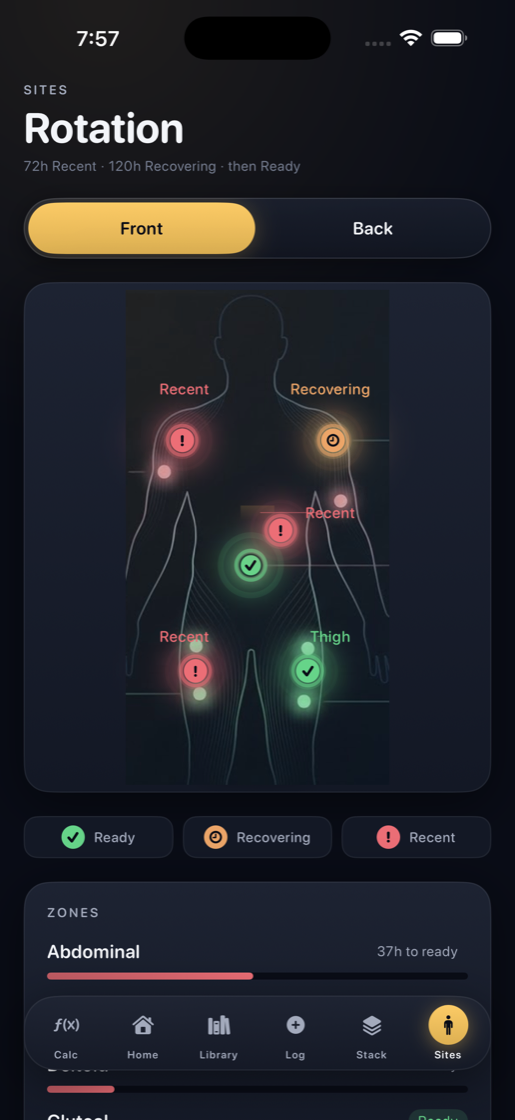
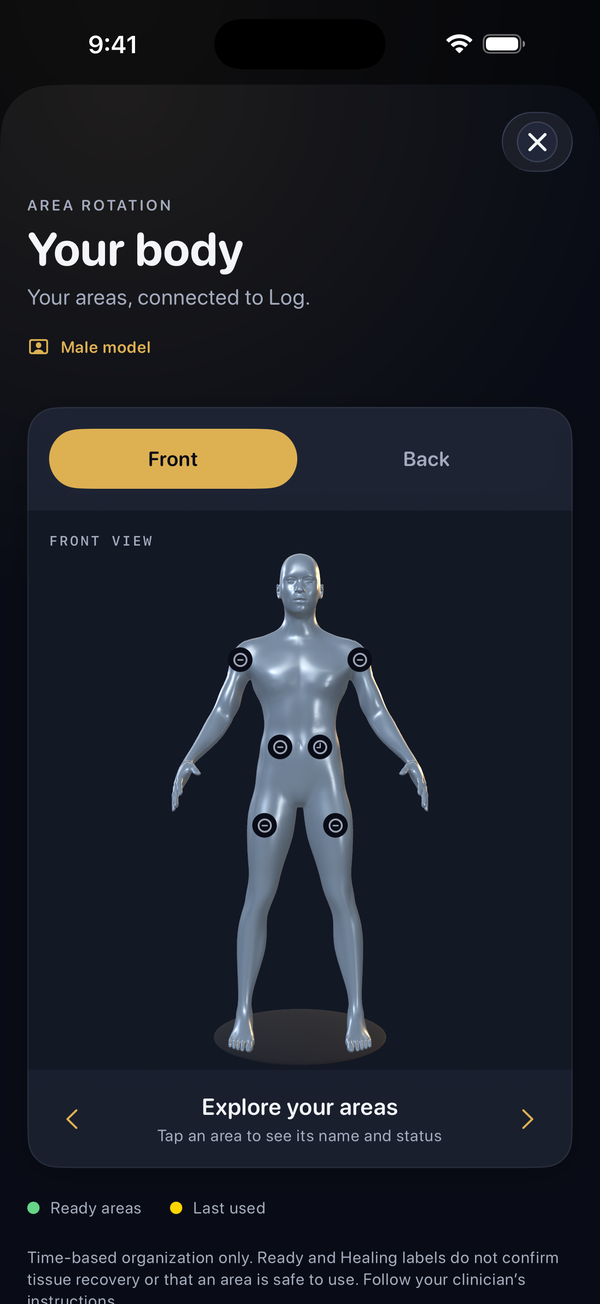
Home page: PeptideBro: Peptide Tracker; detach web tools from the iOS app
The iOS app 1.3 no longer calculates (App Review Guideline 1.4.2), so the
site stops presenting it as a calculator:

- Home page retitled and rewritten around the tracker app (schedule,
  area rotation, user-recorded vial balances, privacy) with 1.3 screens.
- Web calculator: remove Smart App Banner, "Get the app", the
  "Keep this calculation in PeptideBro" transfer and the app upsell.
- Transfer page: no app hand-off; links back to the web calculator.
- Analytics banner wording no longer mentions the calculator.

Web tools stay available at /tools and /calculator.

diff --git a/index.html b/index.html
@@ -4,10 +4,10 @@
 <meta name="google-site-verification" content="cEyh7_z7_5UPKW_G_X9DqLtcxIeTbjWP7xhJrBdN7NE" />
 <meta charset="utf-8">
 <meta name="viewport" content="width=device-width,initial-scale=1">
-<title>Free Peptide Calculator & Unit Conversion Tools | PeptideBro</title>
-<meta name="description" content="Free online reconstitution calculator, mg to mcg converter, concentration calculator, and U-100 volume converter. Instant browser tools, no signup or download.">
-<meta property="og:title" content="Free online calculators — PeptideBro">
-<meta property="og:description" content="Convert mass, concentration, and volume with free browser tools and clear arithmetic explanations.">
+<title>PeptideBro: Peptide Tracker for iPhone | Private Schedule &amp; Journal</title>
+<meta name="description" content="Keep your schedule, saved entries, injection-area rotation and vials in one private iPhone journal. No account needed. Free, with optional Pro.">
+<meta property="og:title" content="PeptideBro: Peptide Tracker for iPhone">
+<meta property="og:description" content="Your schedule, entries, injection areas and vials in one private journal. No account needed.">
 <meta name="apple-itunes-app" content="app-id=6763947732">
 <link rel="canonical" href="https://peptidebro.app/">
 <link rel="stylesheet" href="style.css"><link rel="stylesheet" href="/tools.css">
@@ -18,12 +18,11 @@
   <div class="wrap">
     <a class="brand" href="/">PeptideBro</a>
     <nav>
-      <a href="/calculator">Calculator</a>
-      <a href="/tools">Free tools</a>
+      <a href="/tools">Web tools</a>
       <a href="/privacy.html">Privacy</a>
       <a href="/terms.html">Terms</a>
       <a href="/support.html">Support</a>
-      <a class="nav-cta" href="https://apps.apple.com/us/app/peptidebro-tracker/id6763947732">Get the app</a>
+      <a class="nav-cta" href="https://apps.apple.com/us/app/id6763947732">Get the app</a>
     </nav>
   </div>
 </header>
@@ -31,56 +30,60 @@
 <main>
   <section class="wrap hero">
     <div class="hero-copy">
-      <p class="eyebrow">FREE ONLINE TOOLS · NO SIGNUP</p>
-      <h1>Clear conversions.<br>Right in your browser.</h1>
-      <p class="lede">Calculate reconstitution arithmetic, convert mg to mcg, and work out solution concentration or U-100 syringe markings. Free tools with formulas you can follow. No download needed.</p>
-      <div class="cta-row"><a class="web-cta" href="/calculator">Open free calculator</a><a href="/tools">Browse all web tools →</a></div>
-      <p class="meta">Your inputs stay in your browser. These tools perform arithmetic; they do not recommend doses.</p>
+      <p class="eyebrow">FOR IPHONE · PRIVATE JOURNAL</p>
+      <h1>Your schedule.<br>Your journal.</h1>
+      <p class="lede">PeptideBro: Peptide Tracker keeps your schedule, saved entries, injection-area rotation and vials in one place on your iPhone. No account needed.</p>
+      <div class="cta-row">
+        <a class="btn-appstore" href="https://apps.apple.com/us/app/id6763947732">
+          <span class="btn-appstore-sub">Download on the</span>
+          <span class="btn-appstore-main">App Store</span>
+        </a>
+      </div>
+      <p class="meta">Free, with optional Pro. Records stay on your device unless you turn on private iCloud backup. 17+.</p>
     </div>
     <div class="hero-shot">
-      <img src="img/screen-calculator.png" width="280" alt="Calculator preview from the companion PeptideBro iOS app">
+      <img src="img/screen-today.png" width="280" alt="PeptideBro Today screen with the day's schedule and recorded entries">
     </div>
   </section>
 
-<section class="wrap"><h2>Choose a free web tool</h2><nav class="tool-links" aria-label="Free calculators"><a href="/mg-to-mcg"><strong>mg ↔ mcg</strong><span>Convert milligrams and micrograms.</span></a><a href="/concentration-calculator"><strong>Concentration</strong><span>Calculate mg/mL and mcg/mL.</span></a><a href="/ml-to-units"><strong>mL ↔ U-100 units</strong><span>Understand volume and syringe markings.</span></a><a href="/reconstitution-math"><strong>Understand the math</strong><span>Follow a worked example and check units.</span></a></nav></section>
-  <section id="features" class="wrap features" aria-label="Companion iOS app features">
+  <section id="features" class="wrap features" aria-label="App features">
     <article>
-      <h2>Reconstitution calculator</h2>
-      <p>Powder, pre-mixed, or blend vials &rarr; the exact units to draw on a U-100/U-40 syringe, the concentration, and how many doses your vial holds. You enter the numbers; it does the math.</p>
+      <h2>Schedule &amp; reminders</h2>
+      <p>Set weekdays, dates or intervals, pause when you need to, and see scheduled, recorded and skipped entries in Today and Calendar. Optional reminders and Home Screen widgets.</p>
     </article>
     <article>
       <h2>Site-rotation map</h2>
-      <p>See at a glance which injection zones are ready, recovering, or recently used &mdash; based on standard cooldown windows &mdash; with optional reminders.</p>
+      <p>Explore a 3D body map and see which injection areas you used recently, based on the timing in your log. Organizational labels, not medical clearance.</p>
     </article>
     <article>
-      <h2>Progress &amp; outcomes</h2>
-      <p>Log your weight and how you feel and chart the trend over time, so you can actually see whether your protocol is working.</p>
+      <h2>Vials you control</h2>
+      <p>Record a vial's starting volume and the liquid used on each entry. The balance changes only by the numbers you type and your own corrections.</p>
     </article>
     <article>
       <h2>Private by design</h2>
-      <p>The companion iOS app has no account, analytics, or ads. Your log lives on your device, with optional backup to <em>your own</em> private iCloud &mdash; we never receive it.</p>
+      <p>No account, no analytics, no ads in the app. Your journal lives on your device, with optional backup to <em>your own</em> private iCloud &mdash; we never receive it.</p>
     </article>
   </section>
 
   <section class="wrap shots">
-    <img src="img/screen-calculator.png" width="240" alt="Reconstitution calculator result">
-    <img src="img/screen-sites.png" width="240" alt="Injection site-rotation map">
-    <img src="img/screen-outcomes.png" width="240" alt="Weight and outcome tracking">
+    <img src="img/screen-sites.png" width="240" alt="3D area rotation map">
+    <img src="img/screen-calendar.png" width="240" alt="Calendar of planned and recorded entries">
+    <img src="img/screen-vials.png" width="240" alt="Vial balances from recorded volumes">
   </section>
 
   <section class="wrap trust">
-    <span>Free web tools</span><span>No signup</span><span>Private inputs</span><span>Optional website analytics</span>
+    <span>No account</span><span>On-device records</span><span>Optional private iCloud backup</span><span>Free, optional Pro</span>
   </section>
 
   <section class="wrap disclaimer">
-    <p><strong>Educational reference and a math utility. Not medical advice.</strong> PeptideBro does not recommend or calculate doses for you &mdash; it converts numbers you enter. Many compounds referenced are research chemicals not approved for human use. Consult a licensed clinician before starting, stopping, or modifying any protocol.</p>
+    <p><strong>A personal journal. Not medical advice.</strong> PeptideBro records what you enter. It does not recommend or adjust amounts, prescribe schedules, diagnose, treat, or sell compounds. Many compounds referenced are research chemicals not approved for human use. Consult a licensed clinician before starting, stopping, or modifying any protocol.</p>
   </section>
 
-  <section class="wrap cta-final"><h2>Start with the numbers you have.</h2><a class="web-cta" href="/tools">Explore free web tools</a></section>
+  <section class="wrap cta-final"><h2>Start your journal.</h2><a class="web-cta" href="https://apps.apple.com/us/app/id6763947732">Get PeptideBro for iPhone</a></section>
 </main>
 
 <footer class="wrap">
-  <p>&copy; <span id="year"></span> PeptideBro &middot; <a href="/privacy.html">Privacy</a> &middot; <a href="/terms.html">Terms</a> &middot; <a href="/support.html">Support</a></p>
+  <p>&copy; <span id="year"></span> PeptideBro &middot; <a href="/privacy.html">Privacy</a> &middot; <a href="/terms.html">Terms</a> &middot; <a href="/support.html">Support</a> &middot; <a href="/tools">Web tools</a></p>
 </footer>
 
 <script>document.getElementById('year').textContent = new Date().getFullYear();</script>

diff --git a/calculator.html b/calculator.html
@@ -8,7 +8,6 @@
 <link rel="canonical" href="https://peptidebro.app/calculator">
 <meta property="og:title" content="Peptide Reconstitution Calculator — free, instant, no signup">
 <meta property="og:description" content="Vial + water + dose in → exact syringe units out. Concentration, draw volume, and doses per vial. Free, no account.">
-<meta name="apple-itunes-app" content="app-id=6763947732">
 <link rel="stylesheet" href="style.css">
 <style>
   .calc-card {
@@ -108,20 +107,6 @@
   }
   .calc-warning.show { display: block; }
   .calc-empty { color: var(--ink-2); font-size: 14.5px; margin: 4px 0 0; }
-  .app-upsell {
-    background: var(--card);
-    border: 1px solid var(--line);
-    border-radius: var(--radius);
-    padding: 22px 24px;
-    margin: 32px 0;
-    display: flex;
-    align-items: center;
-    justify-content: space-between;
-    gap: 18px;
-    flex-wrap: wrap;
-  }
-  .app-upsell p { margin: 0; font-size: 14.5px; color: var(--ink-2); max-width: 440px; }
-  .app-upsell strong { color: var(--ink); }
   .faq details {
     background: var(--card);
     border: 1px solid var(--line);
@@ -144,7 +129,6 @@
       <a href="/calculator" aria-current="page">Calculator</a>
       <a href="/tools">Free tools</a>
       <a href="/support.html">Support</a>
-      <a class="nav-cta" href="https://apps.apple.com/us/app/peptidebro-tracker/id6763947732">Get the app</a>
     </nav>
   </div>
 </header>
@@ -218,17 +202,7 @@
           <div id="out-doses-wrap"><strong id="out-doses">—</strong><span>full doses / vial</span></div>
         </div>
         <p class="calc-warning" id="warning"></p>
-        <button id="transfer-calculation" type="button" disabled style="min-height:48px;width:100%;margin-top:16px;border-radius:12px;border:0;background:#ddb052;color:#090c16;font:inherit;font-weight:650;cursor:pointer">Keep this calculation in PeptideBro</button>
-        <p id="transfer-status" aria-live="polite" style="font-size:13px;color:#64748b">Requires PeptideBro 1.3 or later. Preview before saving.</p>
       </div>
-    </div>
-
-    <div class="app-upsell">
-      <p><strong>Want this saved, plus the rest of your protocol?</strong> The PeptideBro app adds a visual syringe, two-peptide blend mode, saved calcs, a private dose log, site-rotation map, and reminders — no account, all on your device.</p>
-      <a class="btn-appstore" href="https://apps.apple.com/us/app/peptidebro-tracker/id6763947732">
-        <span class="btn-appstore-sub">Download on the</span>
-        <span class="btn-appstore-main">App Store</span>
-      </a>
     </div>
 
     <section class="faq" aria-labelledby="faq-title">
@@ -257,7 +231,7 @@
 
 <section class="wrap tools-main"><h2>Choose a free web tool</h2><nav class="tool-links" aria-label="Free calculators"><a href="/mg-to-mcg"><strong>mg ↔ mcg</strong><span>Convert milligrams and micrograms.</span></a><a href="/concentration-calculator"><strong>Concentration</strong><span>Calculate mg/mL and mcg/mL.</span></a><a href="/ml-to-units"><strong>mL ↔ U-100 units</strong><span>Understand volume and syringe markings.</span></a><a href="/reconstitution-math"><strong>Understand the math</strong><span>Follow a worked example and check units.</span></a></nav></section>
     <section class="wrap disclaimer" style="padding-left:20px;">
-      <p><strong>Educational reference and a math utility. Not medical advice.</strong> PeptideBro does not recommend doses — it converts numbers you enter. The math runs in your browser. If you choose to transfer or share a calculation, its inputs are included in the link or file you create; review them before sharing. Consult a licensed clinician before starting, stopping, or modifying any protocol.</p>
+      <p><strong>Educational reference and a math utility. Not medical advice.</strong> PeptideBro does not recommend doses — it converts numbers you enter. The math runs in your browser. Consult a licensed clinician before starting, stopping, or modifying any protocol.</p>
     </section>
   </div>
 </main>
@@ -313,7 +287,6 @@
 }
 </script>
 
-<script src="/js/calculation-transfer.js"></script>
 <script>
 document.getElementById('year').textContent = new Date().getFullYear();
 
@@ -340,7 +313,6 @@ function fmt(n, digits) {
 }
 
 function calc() {
-  document.getElementById("transfer-calculation").disabled = true;
   const doseRaw = num('dose');
   const doseMcg = doseRaw === null ? null :
     (document.getElementById('dose-unit').value === 'mg' ? doseRaw * 1000 : doseRaw);
@@ -380,7 +352,6 @@ function calc() {
   }
 
   const drawMl = doseMcg / concMcgMl;
-  document.getElementById("transfer-calculation").disabled = !Number.isFinite(drawMl) || drawMl <= 0;
   const units = drawMl * factor;
 
   outUnits.textContent = fmt(units, units < 10 ? 1 : 0);
@@ -398,21 +369,6 @@ function calc() {
   }
 }
 
-document.getElementById('transfer-calculation').addEventListener('click', function () {
-  try {
-    const vialRaw = num('vial') || 0;
-    const value = {
-      format: 'peptidebro-calculation', version: 1, mode,
-      vialMg: mode === 'powder' ? vialRaw / (document.getElementById('vial-unit').value === 'mcg' ? 1000 : 1) : 0,
-      waterML: mode === 'powder' ? num('water') : 0,
-      concentration: mode === 'premixed' ? num('conc') : 0,
-      concentrationUnit: document.getElementById('conc-unit').value === 'mgml' ? 'mgPerML' : 'mcgPerML',
-      blendBMg: 0, amount: num('dose'), amountUnit: document.getElementById('dose-unit').value,
-      syringe: document.getElementById('syringe').value === '100' ? 'u100' : 'u40', barrel: 'full10'
-    };
-    location.href = PeptideBroTransfer.link(value, location.origin);
-  } catch (error) { document.getElementById('transfer-status').textContent = error.message; }
-});
 </script>
 </body>
 </html>

diff --git a/transfer.html b/transfer.html
@@ -3,7 +3,7 @@
 <head>
 <meta charset="utf-8"><meta name="viewport" content="width=device-width, initial-scale=1">
 <meta name="referrer" content="no-referrer"><meta name="robots" content="noindex">
-<title>Keep your calculation · PeptideBro</title>
+<title>Shared calculation · PeptideBro</title>
 <link rel="stylesheet" href="/style.css">
 <style>
 html{background:#090c16}body{min-height:100vh;background:#090c16;color:#f3f5f9}main{max-width:660px;margin:48px auto;padding:24px}.eyebrow{color:#ddb052;letter-spacing:.14em;font-size:12px;font-weight:700}h1{font-size:38px;line-height:1.1;letter-spacing:-.03em}.card{background:#131825;border:1px solid #293044;border-radius:24px;padding:24px;margin:24px 0}.muted{color:#a3aabc}.result{font-size:44px;line-height:1.1;font-weight:700;color:#fccb66;margin:20px 0 8px}a,button{color:#fccb66}button,.button{display:block;width:100%;padding:16px;border-radius:14px;border:1px solid #484233;background:#ddb052;color:#090c16;text-align:center;text-decoration:none;font:inherit;font-weight:650;margin:12px 0;cursor:pointer;box-sizing:border-box}.secondary{background:transparent;color:#fccb66}#warning{color:#f8b66c}button:focus-visible,a:focus-visible{outline:3px solid #fff;outline-offset:3px}small{display:block}.error{color:#ffba98}dl{display:grid;grid-template-columns:1fr 1fr;gap:10px}dt{color:#a3aabc}dd{margin:0;text-align:right}
@@ -11,17 +11,14 @@ html{background:#090c16}body{min-height:100vh;background:#090c16;color:#f3f5f9}m
 </head>
 <body><main>
 <p class="eyebrow">PEPTIDEBRO · SHARED INPUTS</p>
-<h1>Keep your calculation.</h1>
-<p class="muted">Review the values, then open them in PeptideBro. The result below is recomputed in your browser.</p>
+<h1>Shared calculation.</h1>
+<p class="muted">Review the shared values. The result below is recomputed in your browser.</p>
 <p id="error" class="error" role="alert" hidden></p>
 <div id="content" hidden>
 <section class="card" aria-label="Calculation preview"><dl id="inputs"></dl><p class="result" id="units"></p><p id="volume" class="muted"></p><p id="warning"></p></section>
-<a id="open-app" class="button">Open in PeptideBro</a>
-<button id="download" class="secondary">Download calculation file</button>
-<a class="button secondary" href="https://apps.apple.com/us/app/peptidebro-peptide-calculator/id6763947732">Get PeptideBro for iPhone</a>
-<p class="muted">Requires PeptideBro 1.2 or later. After installing, return to this page and tap Open, or open the downloaded file. Nothing is saved in the app until you confirm.</p>
+<a class="button" href="/calculator">Open the web calculator</a>
 </div>
-<p class="muted"><small>Only arithmetic inputs are included. No personal notes or history. Values remain in your browser unless you explicitly share or download them. This is a math utility, not a dose recommendation.</small></p>
+<p class="muted"><small>Only arithmetic inputs are included. No personal notes or history. Values remain in your browser. This is a math utility, not a dose recommendation.</small></p>
 <a href="/calculator">Back to calculator</a>
 </main><script src="/js/calculation-transfer.js"></script><script>
 'use strict';
@@ -37,11 +34,6 @@ try {
   document.getElementById('volume').textContent = format(r.volumeML) + ' mL · ' + format(r.concentrationMgML) + ' mg/mL';
   const capacity = {half03: .3, half05: .5, full10: 1}[v.barrel];
   document.getElementById('warning').textContent = r.volumeML > capacity ? 'This calculated volume exceeds the selected barrel capacity.' : r.units < 2 ? 'This draw is below 2 units and may be difficult to measure.' : '';
-  document.getElementById('open-app').href = 'peptidebro://calculation#' + PeptideBroTransfer.encode(v);
-  document.getElementById('download').addEventListener('click', () => {
-    const url = URL.createObjectURL(new Blob([JSON.stringify(v, null, 2)], {type: 'application/vnd.peptidebro.calculation+json'}));
-    const a = document.createElement('a'); a.href = url; a.download = 'PeptideBro-calculation.peptidebrocalc'; a.click(); setTimeout(() => URL.revokeObjectURL(url), 1000);
-  });
   document.getElementById('content').hidden = false;
 } catch (error) { const el = document.getElementById('error'); el.textContent = error.message; el.hidden = false; }
 </script></body></html>

diff --git a/js/website-analytics.js b/js/website-analytics.js
@@ -37,7 +37,7 @@
   const panel = document.createElement('section');
   panel.setAttribute('aria-label', 'Website analytics choice');
   panel.style.cssText = 'position:fixed;bottom:16px;left:16px;right:16px;z-index:1000;max-width:600px;background:#fff;color:#17251c;padding:16px;border:1px solid #bcc8bf;border-radius:12px;box-shadow:0 4px 20px #0002;font:14px/1.5 system-ui';
-  panel.innerHTML = '<p style="margin:0 0 10px">Allow optional analytics cookies to measure visits and App Store clicks? Calculator inputs are never collected. <a href="/website-privacy.html">Details</a></p>';
+  panel.innerHTML = '<p style="margin:0 0 10px">Allow optional analytics cookies to measure visits and App Store clicks? Tool inputs are never collected. <a href="/website-privacy.html">Details</a></p>';
   function choose(value) {
     try { localStorage.setItem(key, value); } catch {}
     panel.remove();
